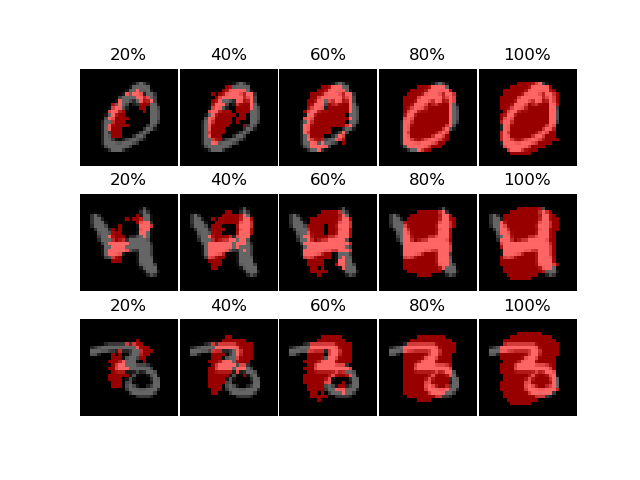
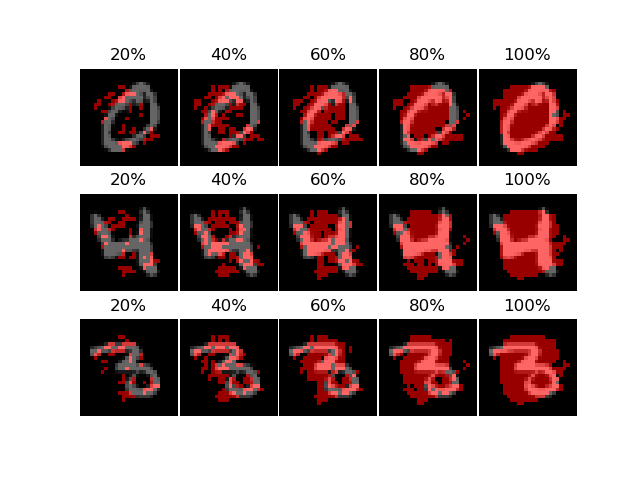
Masked training example

diff --git a/compare.py b/compare.py
@@ -19,6 +19,50 @@ import shap
 from xbart import XBART
 from pygam import GAM, s, te
 
+class CNNModel:
+    def __init__(self, num_classes=10, input_shape=(28, 28, 1)):
+        self.num_classes = num_classes
+        self.input_shape = input_shape
+
+    def create_cnn_model(self):
+        model = tf.keras.Sequential(
+            [
+                tf.keras.Input(shape=self.input_shape),
+                layers.Conv2D(32, kernel_size=(3, 3), activation="relu"),
+                layers.MaxPooling2D(pool_size=(2, 2)),
+                layers.Conv2D(64, kernel_size=(3, 3), activation="relu"),
+                layers.MaxPooling2D(pool_size=(2, 2)),
+                layers.Flatten(),
+                layers.Dropout(0.5),
+                layers.Dense(self.num_classes, activation="softmax"),
+            ]
+        )
+        return model
+
+    def run_cnn_inference(self, X_train, T_train, X_test, T_test):
+        """
+            X_train ([float]): [The matrix of training data. Each row contains one sample.]
+            X_test ([float]): [The matrix of testing data. Each row contains one sample.]
+            T_train ([float]): [The matrix of training target. Each row contains one sample.]
+            T_test ([float]): [The matrix of testing target. Each row contains one sample.]
+        """
+        # Make sure images have shape (28, 28, 1)
+        X_train = X_train.reshape(X_train.shape[0], 28, 28)
+        X_test = X_test.reshape(X_test.shape[0], 28, 28)
+        X_train = np.expand_dims(X_train, -1)
+        X_test = np.expand_dims(X_test, -1)
+        
+        model = self.create_cnn_model()
+        model.compile(loss="categorical_crossentropy", optimizer="adam", metrics=["accuracy"])
+        model.fit(X_train, T_train, epochs=3, batch_size=128)
+        # Sanity checks
+        score_train = model.evaluate(X_train, T_train, verbose=0)
+        score_test = model.evaluate(X_test, T_test, verbose=0)
+        print("Test loss:", score_test[0])
+        print("Test accuracy:", score_test[1])
+        t_hat_test = model.predict(X_test).reshape(T_test.shape)
+        t_hat = model.predict(X_train).reshape(T_train.shape)
+        return compute_nme(T_train,t_hat), compute_nme(T_test,t_hat_test),calculate_accuracy(T_train.T,t_hat.T), calculate_accuracy(T_test.T,t_hat_test.T)
 
 def define_parser():
     parser = argparse.ArgumentParser(description="Run NMP")
@@ -32,10 +76,10 @@ def define_parser():
 
 def prepare_data(args):
     """
-        X_train ([float]): [The matrix of training data. Each column contains one sample.]
-        X_test ([float]): [The matrix of testing data. Each column contains one sample.]
-        T_train ([float]): [The matrix of training target. Each column contains one sample.]
-        T_test ([float]): [The matrix of testing target. Each column contains one sample.]
+        X_train ([float]): [The matrix of training data. Each row contains one sample.]
+        X_test ([float]): [The matrix of testing data. Each row contains one sample.]
+        T_train ([float]): [The matrix of training target. Each row contains one sample.]
+        T_test ([float]): [The matrix of testing target. Each row contains one sample.]
     """
     if args.data=="MNIST":
         X_train =  loadmat("./mat_files/MNIST.mat")["train_x"].astype(np.float32)
@@ -246,11 +290,6 @@ def run_feature_selector_algo(args, S, X_train, X_test, T_train, T_test):
             elif args.algo == "DEEPLIFT": 
                 # Implemented using DeepExplain in SHAP: https://github.com/slundberg/shap
                 #-------------------------------------------------------------------------#
-                
-                # Model / data parameters
-                num_classes = 10
-                input_shape = (28, 28, 1)
-
                 X_train = X_train.reshape(X_train.shape[0], 28, 28)
                 X_test = X_test.reshape(X_test.shape[0], 28, 28)
                 # Make sure images have shape (28, 28, 1)
@@ -260,22 +299,14 @@ def run_feature_selector_algo(args, S, X_train, X_test, T_train, T_test):
                 print(X_train.shape[0], "train samples")
                 print(X_test.shape[0], "test samples")
 
+                # Model / data parameters
+                num_classes = 10
+                input_shape = (28, 28, 1)
                 """
                 ## Build the model
                 """
 
-                model = tf.keras.Sequential(
-                    [
-                        tf.keras.Input(shape=input_shape),
-                        layers.Conv2D(32, kernel_size=(3, 3), activation="relu"),
-                        layers.MaxPooling2D(pool_size=(2, 2)),
-                        layers.Conv2D(64, kernel_size=(3, 3), activation="relu"),
-                        layers.MaxPooling2D(pool_size=(2, 2)),
-                        layers.Flatten(),
-                        layers.Dropout(0.5),
-                        layers.Dense(num_classes, activation="softmax"),
-                    ]
-                )
+                model = CNNModel(num_classes, input_shape).create_cnn_model()
                 model.summary()
                         
                 file_path = file_path_prefix + args.data + "/" + args.algo + "-" + str(i) + ".h5"

diff --git a/test_masked_train.py b/test_masked_train.py
@@ -1,0 +1,35 @@
+import matplotlib.pyplot as plt 
+import os
+import joblib
+import numpy as np
+from scipy.io import loadmat
+import time
+import pickle
+import argparse
+from sklearn.pipeline import make_pipeline
+import random
+import pandas as pd
+from MyFunctions import *
+from compare import *
+import tensorflow as tf
+from tensorflow.keras import layers
+
+X_train =  loadmat("./mat_files/MNIST.mat")["train_x"].astype(np.float32)
+X_test =  loadmat("./mat_files/MNIST.mat")["test_x"].astype(np.float32)
+T_train =  loadmat("./mat_files/MNIST.mat")["train_y"].astype(np.float32)
+T_test =  loadmat("./mat_files/MNIST.mat")["test_y"].astype(np.float32)
+
+num_classes = 10
+input_shape = (28, 28, 1)
+model = CNNModel(num_classes, input_shape)
+
+# Mask at a particular column for the training and test data
+i = 94
+train_mask = np.zeros(X_train.shape)
+test_mask = np.zeros(X_test.shape)
+train_mask[i,:] = 1
+test_mask[i,:] = 1
+X_train = X_train*train_mask
+X_test = X_test*test_mask
+
+print(model.run_cnn_inference(X_train.T, T_train.T, X_test.T, T_test.T))
